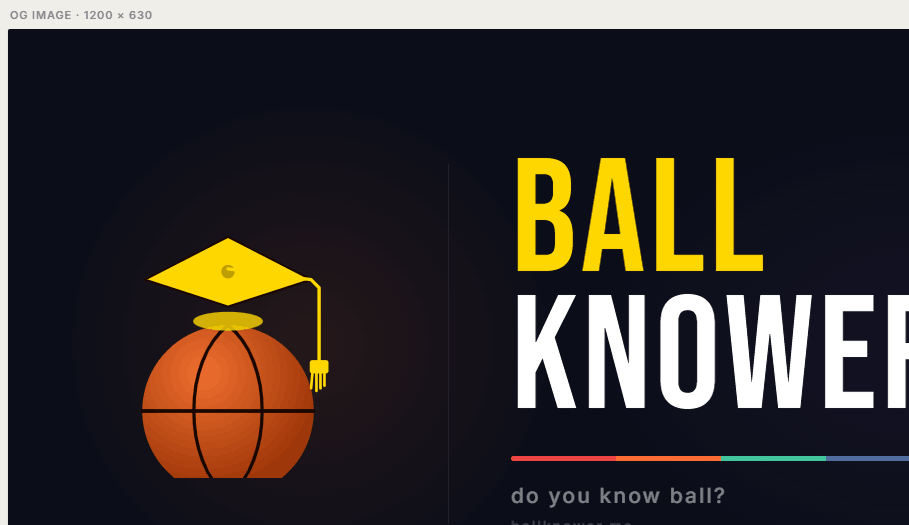
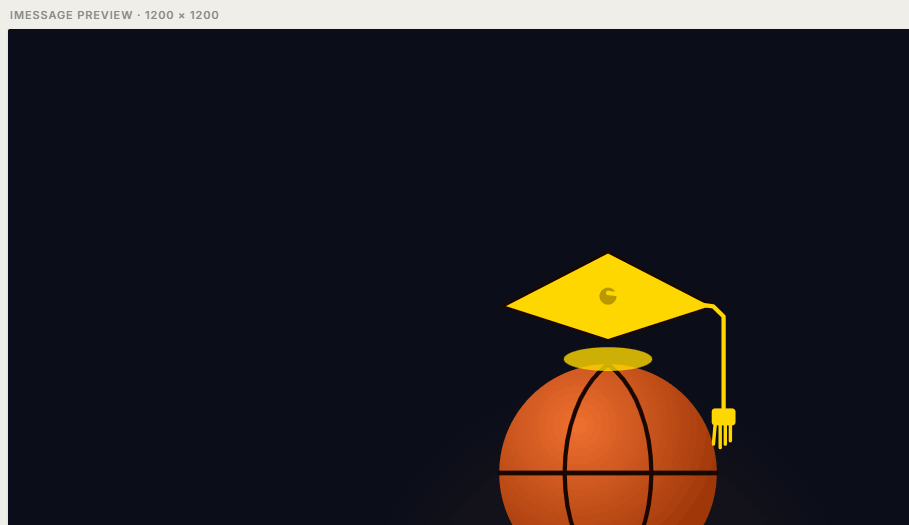
Update og:image to square iMessage preview format (1200x1200)
Replace og-image with square version optimized for iMessage previews. Update og:image:height to 1200.

diff --git a/index.html b/index.html
@@ -11,7 +11,7 @@
   <meta property="og:type" content="website">
   <meta property="og:image" content="https://ballknower.me/og-image.png">
   <meta property="og:image:width" content="1200">
-  <meta property="og:image:height" content="630">
+  <meta property="og:image:height" content="1200">
   <meta name="twitter:card" content="summary_large_image">
   <meta name="twitter:title" content="ball knower">
   <meta name="twitter:description" content="Do you know ball?">